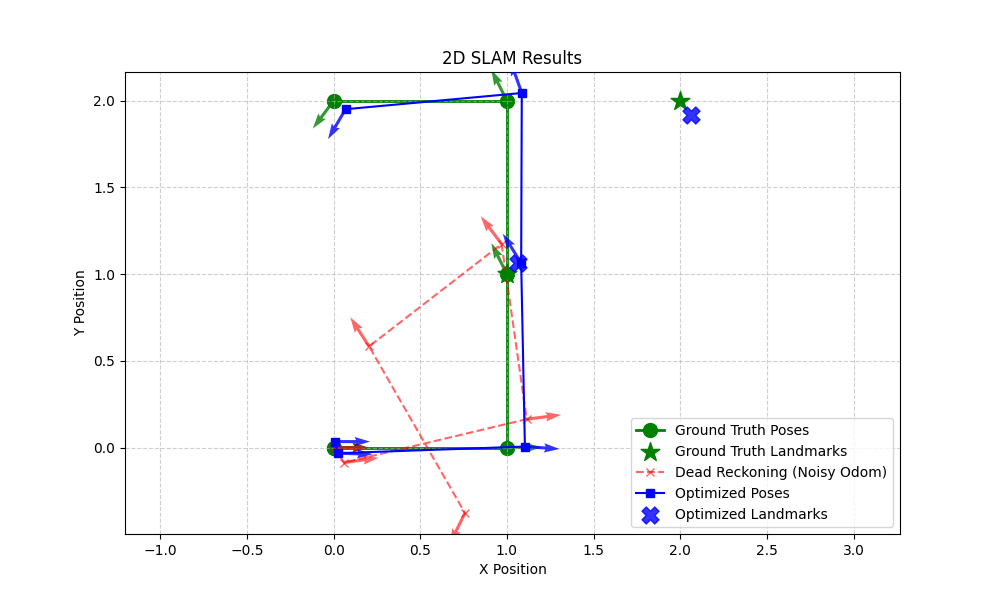
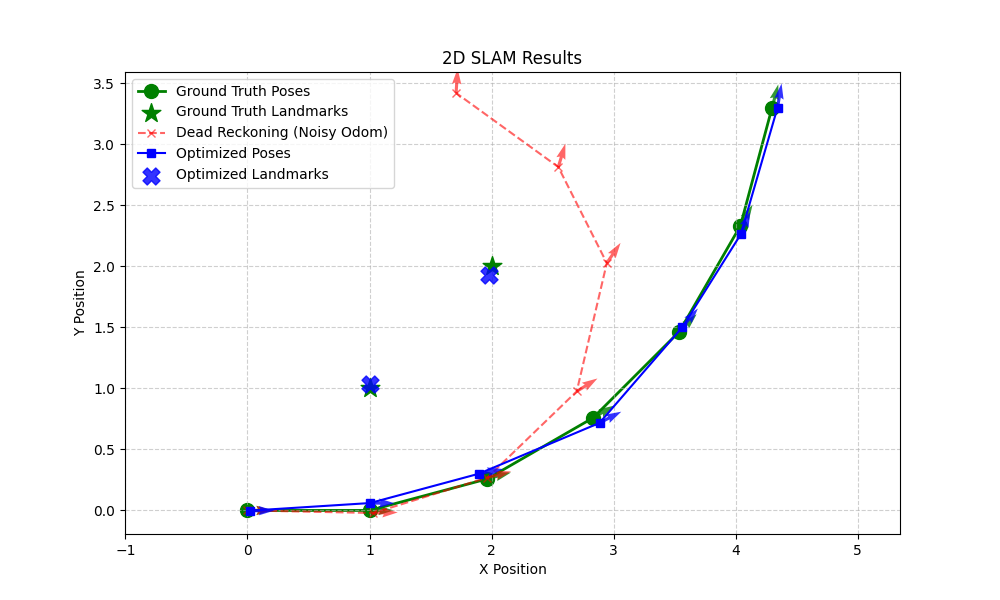
Better angle metrics

diff --git a/slam_core/backend_2d.py b/slam_core/backend_2d.py
@@ -82,7 +82,7 @@ class SLAM2DBackend:
         num_pose_params = num_poses * 3
         poses = params[:num_pose_params].reshape(num_pose_params//3, 3) # x, y, angle
         poses_xy = poses[:, 0:2]
-        # poses_angle = poses[:, 2]
+        poses_angle = poses[:, 2]
         landmark_coords = params[num_pose_params:].reshape((len(params)-num_pose_params)//2, 2)
         ### END TODO ###
 
@@ -101,13 +101,17 @@ class SLAM2DBackend:
         # For each odometry measurement, calculate the expected movement based on the current and next pose, and compare to the measured movement.
         ### TODO ###
         calc_movements = []
+        calc_angles = []
         for i in range(len(poses_xy) - 1):
             calc_movements.append(poses_xy[i + 1] - poses_xy[i])
+            calc_angles.append(poses_angle[i+1] - poses_angle[i])
 
         print("measured movement:", measured_movements[0])
         odometry_measurements = [(measurement.delta_x, measurement.delta_y) for measurement in measured_movements]
+        odometry_angles = [measurement.delta_theta for measurement in measured_movements]
         diff_poses = np.array(calc_movements) - np.array(odometry_measurements)
-        movement_penalty = np.sum(np.linalg.norm(diff_poses, axis=1)**2) * odom_weight
+        diff_angles = (np.array(calc_angles) - np.array(odometry_angles) + np.pi) % (2*np.pi) - np.pi
+        movement_penalty = np.sum(np.linalg.norm(diff_poses, axis=1)**2) * odom_weight + np.sum(diff_angles**2)
         # movement_penalty = 0.0
         # for pose_diff in diff_poses:
         #
@@ -138,7 +142,8 @@ class SLAM2DBackend:
             angles = np.array([np.arctan2(distance_y, distance_x) for distance_x, distance_y in distances_xy])
             # print("angles", angles)
             # print("measurement angles", measurement.angles)
-            angle_penalty += np.sum(np.abs(angles - measurement.angles))
+            angle_diff = (angles - measurement.angles + np.pi) % (2 * np.pi) - np.pi
+            angle_penalty += np.sum(np.abs(angle_diff))
 
         distance_penalty *= sensor_weight
         angle_penalty *= sensor_weight

diff --git a/slam_core/frontend_2d.py b/slam_core/frontend_2d.py
@@ -43,13 +43,12 @@ class SLAM2DFrontend:
             self.true_poses = [self.initial_pose]
             x, y = self.initial_pose[0]
             angle = self.initial_pose[1]
-            self.true_poses.append(self.initial_pose)
             ### TODO ###
             SQUARE_SIDE_LEN = 2
             directions = [[1, 0, 0], # x multiplier, y multiplier, angle
-                          [0, 1, 90],
-                          [-1, 0, 180],
-                          [0, -1, 270]]
+                          [0, 1, np.pi / 2],
+                          [-1, 0, np.pi],
+                          [0, -1, - np.pi / 2]]
             dir_i = 0
             for step in range(self.num_steps):
                 if (step + 1) % SQUARE_SIDE_LEN == 0: # turn
@@ -65,13 +64,13 @@ class SLAM2DFrontend:
             angle = self.initial_pose[1]
             self.true_poses.append(self.initial_pose)
             ### TODO ###
-            TURN_ANGLE = 15
+            TURN_ANGLE = np.radians(15)
             for i in range(self.num_steps):
                 x = x + np.cos(angle)
                 y = y + np.sin(angle)
                 self.true_poses.append(((x, y), angle))
                 angle += TURN_ANGLE
-                angle % 360
+                angle % (2 * np.pi)
             ### END TODO ###
         elif self.trajectory_shape == "line":
             self.true_poses = [self.initial_pose]

diff --git a/slam2d.py b/slam2d.py
@@ -17,8 +17,8 @@ def main():
 
     frontend = SLAM2DFrontend(
         initial_pose=((0, 0), 0),
-        trajectory_shape="square",
-        num_steps=4,
+        trajectory_shape="circle",
+        num_steps=6,
         odometry_noise_std=odometry_noise,
         sensor_noise_std=sensor_noise,
         initial_guess_std=initial_guess_noise,
